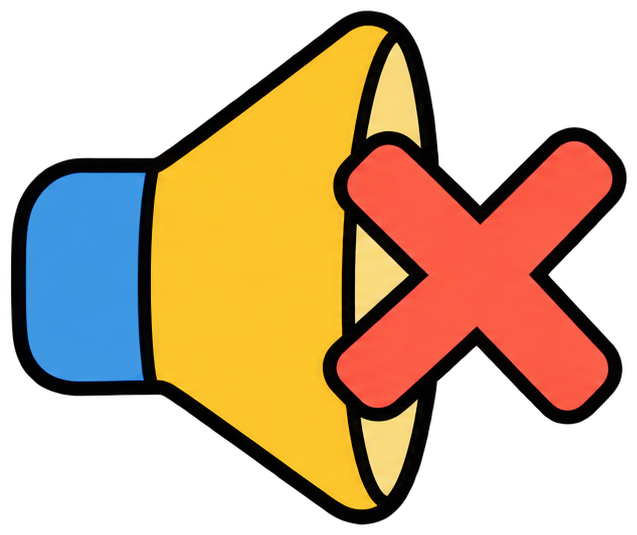
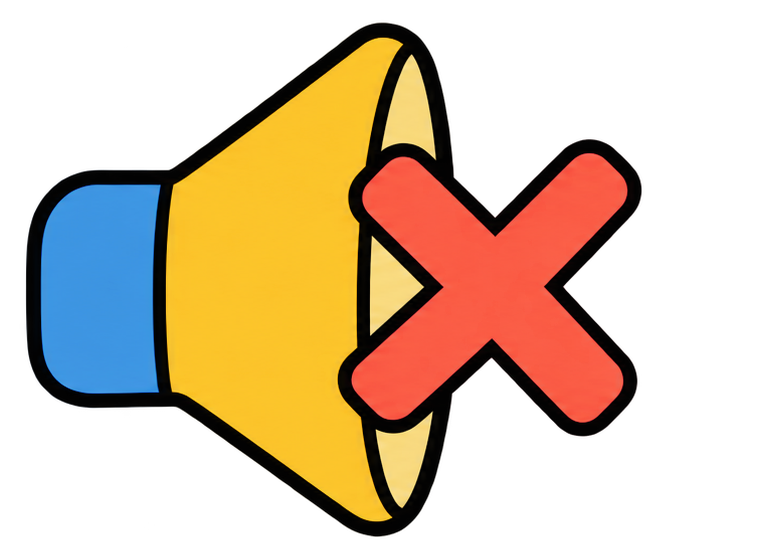
Normalizar escala 1:1 de los iconos de audio y fijar ancho del boton para evitar saltos de tamano o espaciado

diff --git a/style.css b/style.css
@@ -124,7 +124,9 @@ body {
   background: #fffdf8;
   border: 4px solid #373432;
   border-radius: 46px;
-  padding: 8px 20px 8px 38px;
+  width: 216px;
+  height: 48px;
+  padding: 0 16px 0 38px;
   font-family: var(--font-heading);
   font-size: 0.88rem;
   font-weight: 900;
@@ -134,8 +136,17 @@ body {
   box-shadow: none;
   display: flex;
   align-items: center;
+  justify-content: center;
+  box-sizing: border-box;
   user-select: none;
   transition: opacity 0.2s ease;
+}
+
+.lbl-audio {
+  display: block;
+  white-space: nowrap;
+  text-align: center;
+  width: 100%;
 }
 
 .btn-cartoon-sound:hover {
@@ -154,8 +165,8 @@ body {
   left: -22px;
   top: 50%;
   transform: translateY(-50%);
-  width: 48px;
-  height: 48px;
+  width: 52px;
+  height: 52px;
   display: flex;
   align-items: center;
   justify-content: center;
